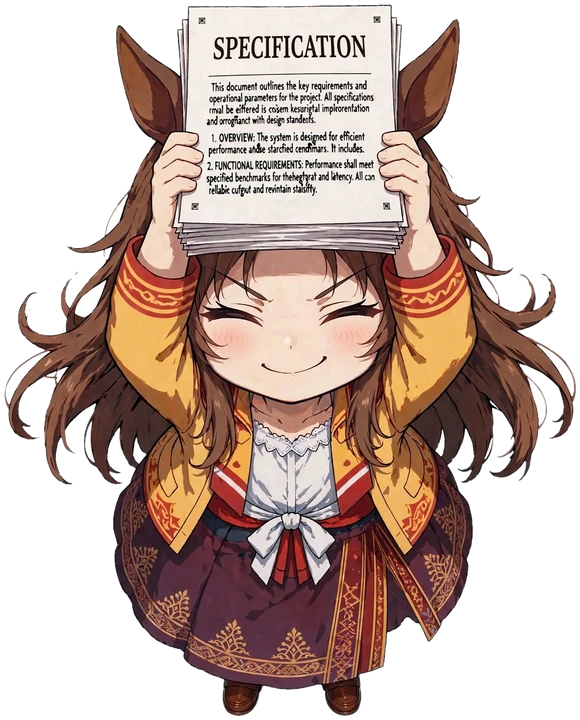
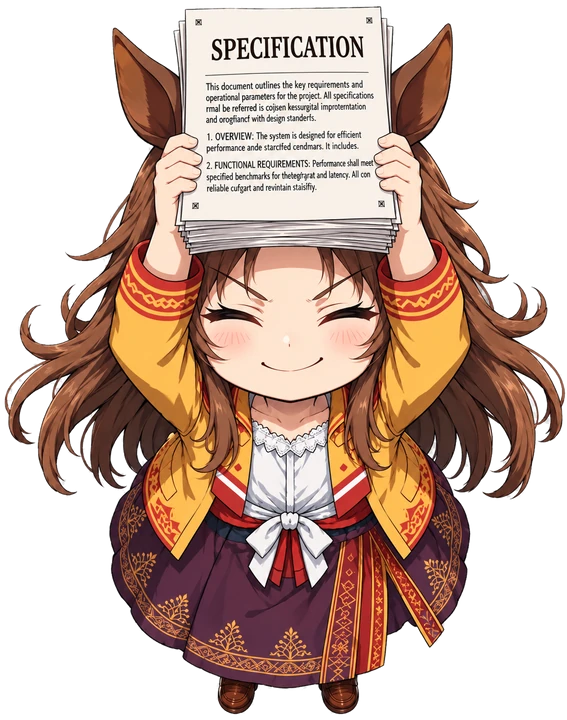
カード説明: SKILLのSDキャラを修正版（市松背景を除去して透過化）に差し替え

diff --git a/game-card-content.html b/game-card-content.html
@@ -476,7 +476,7 @@
 
         <div class="game-section has-sd" data-reveal>
             <h2 class="section-title">SKILL</h2>
-            <img class="sd-figure" src="assets/sd/skill_GRAS-BS-010.webp" alt="" width="580" height="720" loading="lazy">
+            <img class="sd-figure" src="assets/sd/skill_GRAS-BS-010.webp" alt="" width="567" height="720" loading="lazy">
             <p class="section-lead">スキルについて</p>
             <p class="section-body">キャラごとに固有の力を持つ。<br>全体強化や回復、妨害、罠など、様々な効果がある。</p>
             <div class="rar-note">
